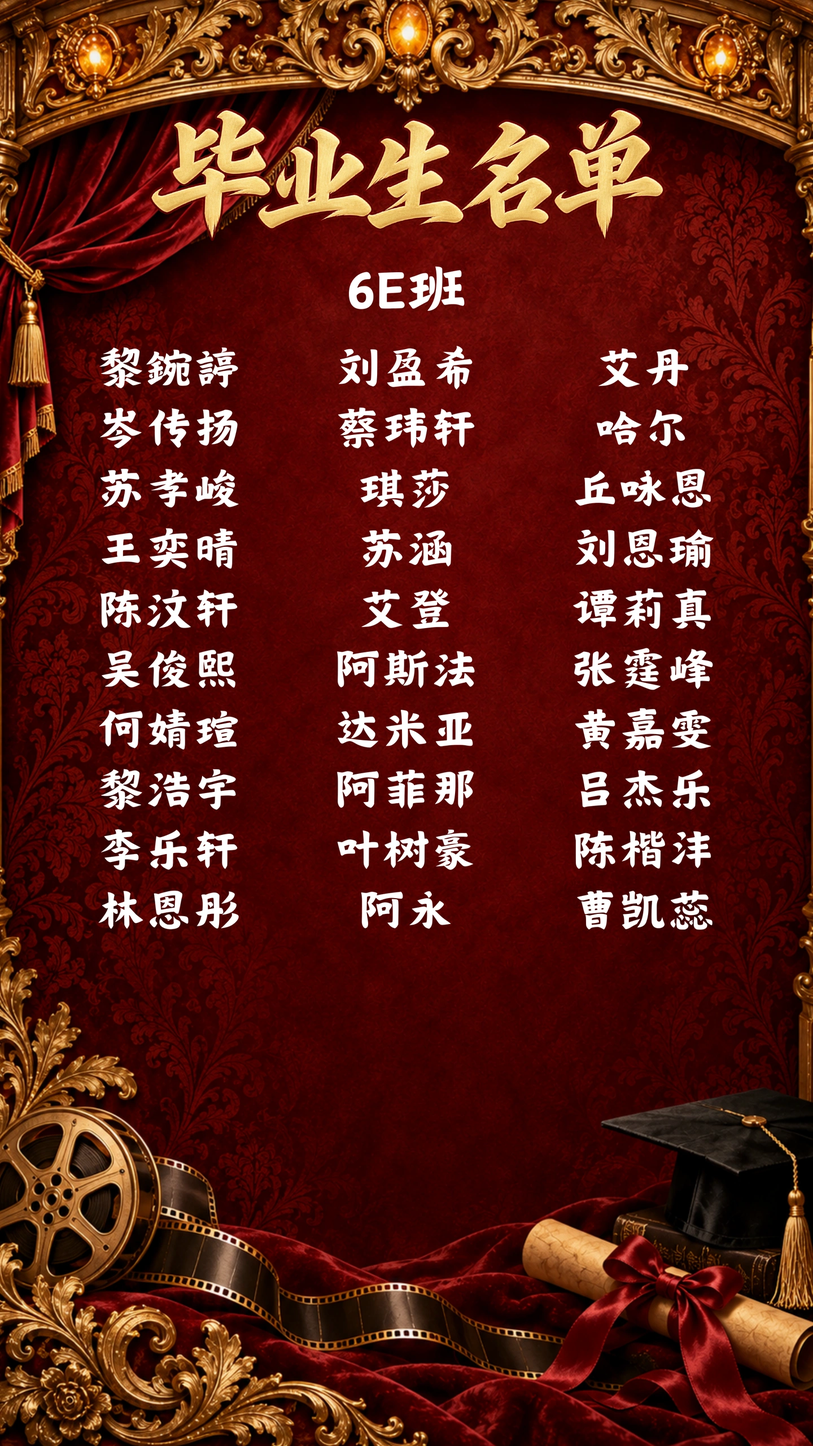
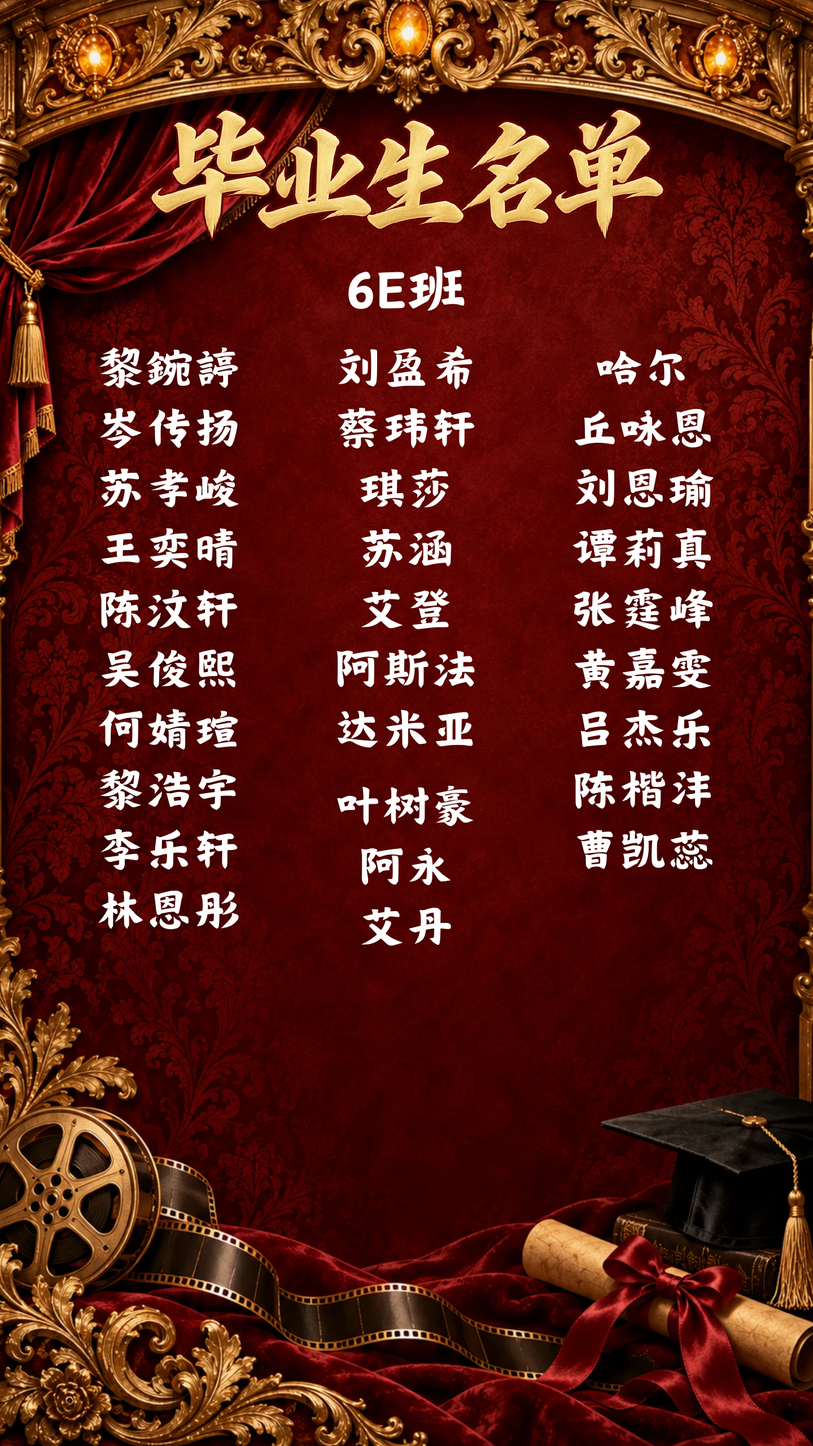
Sync the updated 6E graduation booklet page

diff --git a/index.html b/index.html
@@ -1,1 +1,1 @@
-<!doctype html><html lang="zh-Hans"><head><meta charset="UTF-8"><meta name="viewport" content="width=device-width,initial-scale=1,viewport-fit=cover"><meta name="theme-color" content="#100b0d"><title>下一幕，出发</title><link rel="stylesheet" href="style.css?v=9"></head><body><main class="stage" aria-label="毕业纪念册"><div id="book"></div><script id="page-data" type="application/json">[{"src": "assets/hq-1-1440.webp", "alt": "封面"}, {"src": "assets/hq-2-1440.webp?v=18", "alt": "典礼流程"}, {"src": "assets/hq-3-1440.webp?v=16", "alt": "6A毕业生名单"}, {"src": "assets/hq-4-1440.webp", "alt": "6B毕业生名单"}, {"src": "assets/hq-5-1440.webp", "alt": "6C毕业生名单"}, {"src": "assets/hq-6-1440.webp", "alt": "6D毕业生名单"}, {"src": "assets/hq-7-1440.webp", "alt": "6E毕业生名单"}, {"src": "assets/hq-8-1440.webp?v=17", "alt": "6F毕业生名单"}, {"src": "assets/hq-9-1440.webp", "alt": "致第七十四届毕业生"}]</script><div class="fx" aria-hidden="true"><svg class="magic" viewBox="0 0 100 178" preserveAspectRatio="none"><defs><filter id="magic-soft"><feGaussianBlur stdDeviation="1.2"/></filter></defs><g><path class="trail halo" pathLength="1000" d="M4 153 C36 183 109 149 96 100 C86 62 -3 67 9 29 C17 5 61 3 94 23"/><path class="trail core" pathLength="1000" d="M4 153 C36 183 109 149 96 100 C86 62 -3 67 9 29 C17 5 61 3 94 23"/><path class="sparks" pathLength="1000" d="M4 153 C36 183 109 149 96 100 C86 62 -3 67 9 29 C17 5 61 3 94 23"/></g></svg></div></main><nav aria-label="翻页与音乐"><button id="prev" aria-label="上一页"><svg viewBox="0 0 24 24"><path d="m14 6-6 6 6 6"/></svg></button><button id="music" aria-label="音乐已开启，等待首次点击播放；点击关闭；长按查看音乐来源" title="音乐开关 · 长按或右键查看来源" aria-pressed="true"><svg viewBox="0 0 24 24"><path d="M9 18V5l11-2v13M9 8l11-2"/><ellipse cx="6" cy="18" rx="3" ry="2"/><ellipse cx="17" cy="16" rx="3" ry="2"/><path class="muted-mark" d="m3 3 18 18"/></svg></button><button id="next" aria-label="下一页"><svg viewBox="0 0 24 24"><path d="m10 6 6 6-6 6"/></svg></button></nav><aside id="music-credit" hidden>In Your Arms — Kevin MacLeod<br><a href="https://incompetech.com/" target="_blank" rel="noopener">incompetech.com</a><br>Licensed under <a href="https://creativecommons.org/licenses/by/4.0/" target="_blank" rel="noopener">Creative Commons Attribution 4.0</a><br>Original recording, unchanged.</aside><audio id="soundtrack" src="assets/in-your-arms.mp3" preload="auto" loop></audio><script src="assets/page-flip.js?v=12"></script><script src="app.js?v=9"></script><script src="music.js?v=12"></script></body></html>
+<!doctype html><html lang="zh-Hans"><head><meta charset="UTF-8"><meta name="viewport" content="width=device-width,initial-scale=1,viewport-fit=cover"><meta name="theme-color" content="#100b0d"><title>下一幕，出发</title><link rel="stylesheet" href="style.css?v=9"></head><body><main class="stage" aria-label="毕业纪念册"><div id="book"></div><script id="page-data" type="application/json">[{"src": "assets/hq-1-1440.webp", "alt": "封面"}, {"src": "assets/hq-2-1440.webp?v=18", "alt": "典礼流程"}, {"src": "assets/hq-3-1440.webp?v=16", "alt": "6A毕业生名单"}, {"src": "assets/hq-4-1440.webp", "alt": "6B毕业生名单"}, {"src": "assets/hq-5-1440.webp", "alt": "6C毕业生名单"}, {"src": "assets/hq-6-1440.webp", "alt": "6D毕业生名单"}, {"src": "assets/hq-7-1440.webp?v=19", "alt": "6E毕业生名单"}, {"src": "assets/hq-8-1440.webp?v=17", "alt": "6F毕业生名单"}, {"src": "assets/hq-9-1440.webp", "alt": "致第七十四届毕业生"}]</script><div class="fx" aria-hidden="true"><svg class="magic" viewBox="0 0 100 178" preserveAspectRatio="none"><defs><filter id="magic-soft"><feGaussianBlur stdDeviation="1.2"/></filter></defs><g><path class="trail halo" pathLength="1000" d="M4 153 C36 183 109 149 96 100 C86 62 -3 67 9 29 C17 5 61 3 94 23"/><path class="trail core" pathLength="1000" d="M4 153 C36 183 109 149 96 100 C86 62 -3 67 9 29 C17 5 61 3 94 23"/><path class="sparks" pathLength="1000" d="M4 153 C36 183 109 149 96 100 C86 62 -3 67 9 29 C17 5 61 3 94 23"/></g></svg></div></main><nav aria-label="翻页与音乐"><button id="prev" aria-label="上一页"><svg viewBox="0 0 24 24"><path d="m14 6-6 6 6 6"/></svg></button><button id="music" aria-label="音乐已开启，等待首次点击播放；点击关闭；长按查看音乐来源" title="音乐开关 · 长按或右键查看来源" aria-pressed="true"><svg viewBox="0 0 24 24"><path d="M9 18V5l11-2v13M9 8l11-2"/><ellipse cx="6" cy="18" rx="3" ry="2"/><ellipse cx="17" cy="16" rx="3" ry="2"/><path class="muted-mark" d="m3 3 18 18"/></svg></button><button id="next" aria-label="下一页"><svg viewBox="0 0 24 24"><path d="m10 6 6 6-6 6"/></svg></button></nav><aside id="music-credit" hidden>In Your Arms — Kevin MacLeod<br><a href="https://incompetech.com/" target="_blank" rel="noopener">incompetech.com</a><br>Licensed under <a href="https://creativecommons.org/licenses/by/4.0/" target="_blank" rel="noopener">Creative Commons Attribution 4.0</a><br>Original recording, unchanged.</aside><audio id="soundtrack" src="assets/in-your-arms.mp3" preload="auto" loop></audio><script src="assets/page-flip.js?v=12"></script><script src="app.js?v=9"></script><script src="music.js?v=12"></script></body></html>
